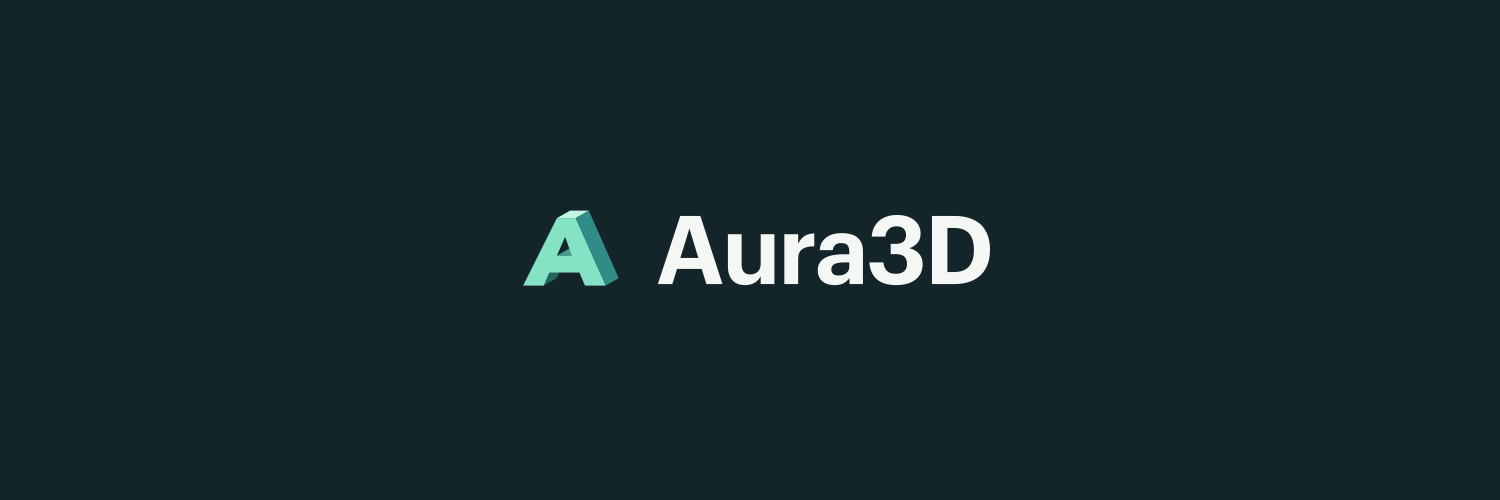
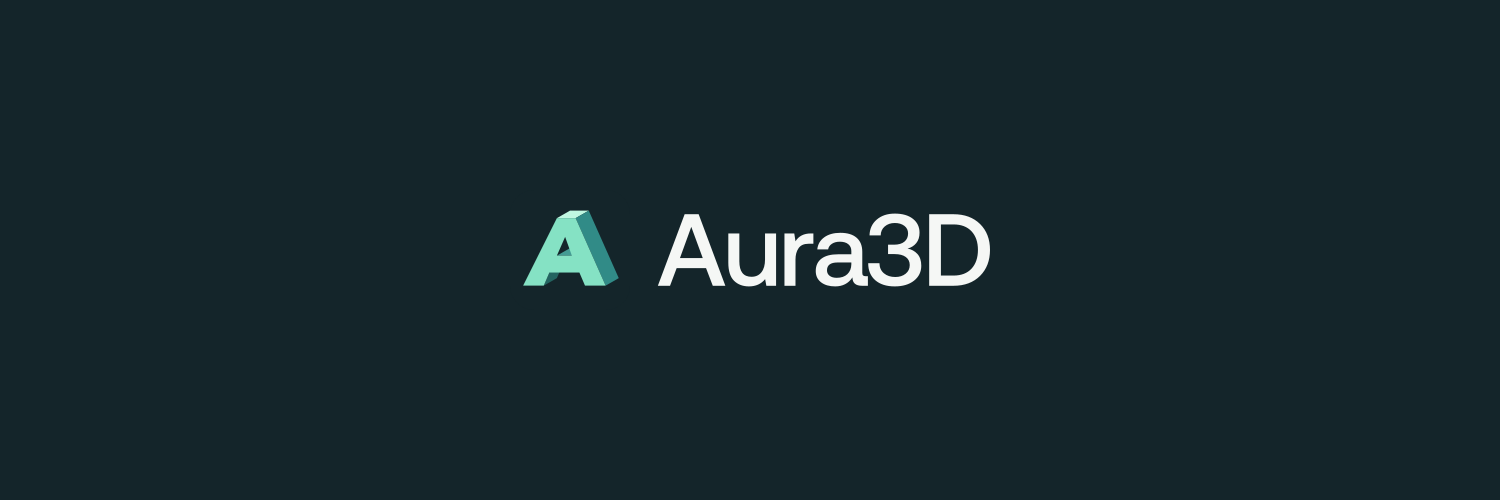
Use licensed display and telemetry type in the live showcases and covers

Changed region(s): [[0.4293, 0.42, 0.6747, 0.57]]

diff --git a/apps/relay-workcell/src/studio.css b/apps/relay-workcell/src/studio.css
@@ -1,11 +1,11 @@
-:root{color-scheme:light;font-family:"Inter","Helvetica Neue",Arial,sans-serif;color:#173739;background:#142e31;font-synthesis:none}
+:root{color-scheme:light;font-family:"Aeonik Pro",Arial,sans-serif;color:#173739;background:#142e31;font-synthesis:none}
 *{box-sizing:border-box}body{margin:0}header{height:60px;background:#11292b;padding:0 clamp(16px,3.5vw,64px);display:flex;align-items:center;justify-content:space-between}
-a{color:inherit}header a{color:#e8f1ee;text-decoration:none;font-size:.86rem}header nav{display:flex;align-items:center;gap:14px;color:#79948f}.brand{font-size:1.22rem;font-weight:750;letter-spacing:-.07em}
+a{color:inherit}header a{color:#e8f1ee;text-decoration:none;font-size:.86rem}header nav{display:flex;align-items:center;gap:14px;color:#79948f}.brand{font-size:1.22rem;font-weight:500;letter-spacing:-.07em}
 .lab{display:grid;grid-template-columns:minmax(0,1fr) clamp(290px,25vw,375px);min-height:calc(100svh - 60px)}.view{position:relative;overflow:hidden;min-height:530px;background:#a4b7b7}
-#viewport,.poster{display:block;position:absolute;inset:0;width:100%;height:100%;object-fit:cover}#viewport{touch-action:none}.poster{pointer-events:none}.nameplate{position:absolute;top:clamp(23px,4vw,58px);left:clamp(20px,3.4vw,60px);pointer-events:none;color:#102f31;text-shadow:0 1px 12px #dbe7e686}.nameplate p,.eyebrow{margin:0;text-transform:uppercase;letter-spacing:.16em;font-size:.67rem;font-weight:700}.nameplate h1{margin:5px 0;font-size:clamp(2rem,4.5vw,5.4rem);font-weight:550;letter-spacing:-.07em;line-height:1.02}.nameplate p:before{content:"";display:inline-block;width:24px;height:3px;margin:0 8px 2px 0;background:#237c72}
+#viewport,.poster{display:block;position:absolute;inset:0;width:100%;height:100%;object-fit:cover}#viewport{touch-action:none}.poster{pointer-events:none}.nameplate{position:absolute;top:clamp(23px,4vw,58px);left:clamp(20px,3.4vw,60px);pointer-events:none;color:#102f31;text-shadow:0 1px 12px #dbe7e686}.nameplate p,.eyebrow{margin:0;text-transform:uppercase;letter-spacing:.16em;font-size:.67rem;font-weight:500}.nameplate h1{margin:5px 0;font-size:clamp(2rem,4.5vw,5.4rem);font-weight:500;letter-spacing:-.07em;line-height:1.02}.nameplate p:before{content:"";display:inline-block;width:24px;height:3px;margin:0 8px 2px 0;background:#237c72}
 #instruction{position:absolute;bottom:22px;left:clamp(12px,2.5vw,42px);display:flex;gap:.55em;align-items:center;padding:9px 13px;border-radius:2px;background:#173236ed;color:#f5f8f6;font-size:.74rem;margin:0;pointer-events:none}#instruction i{width:14px;border-top:3px dotted #5de6c9}#instruction span{color:#a7bdb7}body[data-scene-ready] .poster{display:none}
-aside{background:#eff3ee;padding:clamp(21px,2vw,34px);align-content:center;display:grid;gap:16px;border-left:1px solid #a2b2aa}.panel-head,.metrics,.actions,legend,.telemetry .eyebrow,footer{display:flex;justify-content:space-between;align-items:center;gap:10px}.panel-head .eyebrow{color:#53746d}#phase{font:650 .69rem ui-monospace,monospace;color:#096a57;background:#dbebe0;border-radius:14px;padding:5px 9px}h2{margin:0;font-size:clamp(1.65rem,2.5vw,2.5rem);letter-spacing:-.06em;font-weight:550}
-.metrics{justify-content:start;gap:30px}.metrics small{font-size:.7rem;color:#42605a;display:block;margin-bottom:3px}.metrics strong{font-size:1.28rem;font-family:ui-monospace,monospace;font-weight:550}.actions{justify-content:stretch}.actions button{flex:1;font:600 .87rem inherit;font-family:inherit;font-weight:650;min-height:42px;border:1px solid #b0c2ba;background:transparent;color:#19463f;border-radius:3px;cursor:pointer}.actions #run{flex:1.6;background:#145c50;color:white;border-color:#145c50}button:disabled,input:disabled{opacity:.6;cursor:default}
-#status{font-size:.78rem;line-height:1.4;margin:-6px 0 0;color:#49645b}body[data-blocked] #status{color:#92401d;font-weight:650}fieldset,.telemetry,footer{border:none;border-top:1px solid #bacac0;padding:14px 0 0;margin:0}legend{float:left;width:100%;padding:0 0 10px;font-weight:650;font-size:.82rem}legend small,.eyebrow small{font:.68rem ui-monospace,monospace;letter-spacing:0;text-transform:none;color:#526d64}.coords{clear:both;display:grid;grid-template-columns:1fr 1fr 1fr;gap:6px;align-items:center}.coords>span{text-align:center;font:.7rem ui-monospace,monospace;color:#597068}.coords input{min-width:0;width:100%;font:600 .84rem ui-monospace,monospace;color:#25453c;border:1px solid #b2c5ba;background:#f8faf6;border-radius:3px;padding:7px}.station{font-size:.79rem;font-weight:650}.station:before{content:"";display:inline-block;width:7px;height:7px;border-radius:1px;margin-right:7px;background:#177d70}.drop:before{background:#b67a26}.telemetry .eyebrow{font-size:.62rem;color:#526b62}#tcp,#joints{display:grid;grid-template-columns:repeat(3,1fr);gap:5px 10px;margin:8px 0 15px;font:500 .78rem ui-monospace,monospace}#joints{margin-bottom:0}.telemetry b{font-weight:400;color:#577067;margin-right:4px}footer a{font-size:.75rem;color:#225a4f;text-underline-offset:3px}button:focus-visible,input:focus-visible,a:focus-visible{outline:3px solid #d78628;outline-offset:2px}
+aside{background:#eff3ee;padding:clamp(21px,2vw,34px);align-content:center;display:grid;gap:16px;border-left:1px solid #a2b2aa}.panel-head,.metrics,.actions,legend,.telemetry .eyebrow,footer{display:flex;justify-content:space-between;align-items:center;gap:10px}.panel-head .eyebrow{color:#53746d}#phase{font:500 .69rem "Aeonik Pro",Arial,sans-serif;color:#096a57;background:#dbebe0;border-radius:14px;padding:5px 9px}h2{margin:0;font-size:clamp(1.65rem,2.5vw,2.5rem);letter-spacing:-.06em;font-weight:500}
+.metrics{justify-content:start;gap:30px}.metrics small{font-size:.7rem;color:#42605a;display:block;margin-bottom:3px}.metrics strong{font-size:1.28rem;font-family:"TT Commons Pro Mono",ui-monospace,monospace;font-weight:400}.actions{justify-content:stretch}.actions button{flex:1;font:500 .87rem/1.3 "Aeonik Pro",Arial,sans-serif;min-height:42px;border:1px solid #b0c2ba;background:transparent;color:#19463f;border-radius:3px;cursor:pointer}.actions #run{flex:1.6;background:#145c50;color:white;border-color:#145c50}button:disabled,input:disabled{opacity:.6;cursor:default}
+#status{font-size:.78rem;line-height:1.4;margin:-6px 0 0;color:#49645b}body[data-blocked] #status{color:#92401d;font-weight:500}fieldset,.telemetry,footer{border:none;border-top:1px solid #bacac0;padding:14px 0 0;margin:0}legend{float:left;width:100%;padding:0 0 10px;font-weight:500;font-size:.82rem}legend small,.eyebrow small{font:.68rem "TT Commons Pro Mono",ui-monospace,monospace;letter-spacing:0;text-transform:none;color:#526d64}.coords{clear:both;display:grid;grid-template-columns:1fr 1fr 1fr;gap:6px;align-items:center}.coords>span{text-align:center;font:.7rem "TT Commons Pro Mono",ui-monospace,monospace;color:#597068}.coords input{min-width:0;width:100%;font:400 .84rem "TT Commons Pro Mono",ui-monospace,monospace;color:#25453c;border:1px solid #b2c5ba;background:#f8faf6;border-radius:3px;padding:7px}.station{font-size:.79rem;font-weight:500}.station:before{content:"";display:inline-block;width:7px;height:7px;border-radius:1px;margin-right:7px;background:#177d70}.drop:before{background:#b67a26}.telemetry .eyebrow{font-size:.62rem;color:#526b62}#tcp,#joints{display:grid;grid-template-columns:repeat(3,1fr);gap:5px 10px;margin:8px 0 15px;font:400 .78rem "TT Commons Pro Mono",ui-monospace,monospace}#joints{margin-bottom:0}.telemetry b{font-weight:400;color:#577067;margin-right:4px}footer a{font-size:.75rem;color:#225a4f;text-underline-offset:3px}button:focus-visible,input:focus-visible,a:focus-visible{outline:3px solid #d78628;outline-offset:2px}
 html[data-chrome=hidden] header,html[data-chrome=hidden] aside,html[data-chrome=hidden] .nameplate,html[data-chrome=hidden] #instruction{display:none}html[data-chrome=hidden] .lab{display:block}html[data-chrome=hidden] .view{height:100dvh;min-height:100dvh}
 @media(max-width:760px){header{height:48px}.lab{display:block}.view{height:58svh;min-height:325px;max-height:550px}.nameplate{top:18px}aside{border:0;gap:12px;padding:22px max(20px,calc((100vw - 470px)/2))}#instruction{bottom:10px;font-size:.67rem}h2{font-size:1.7rem}}

diff --git a/apps/ember-courier/src/style.css b/apps/ember-courier/src/style.css
@@ -1,17 +1,17 @@
-:root{color-scheme:dark;font-family:"Barlow",system-ui,sans-serif;background:#13232d;color:#f5f4ed;--amber:#ffae61;--line:#a7c3c24f}
+:root{color-scheme:dark;font-family:"Aeonik Pro",Arial,sans-serif;font-synthesis:none;background:#13232d;color:#f5f4ed;--amber:#ffae61;--line:#a7c3c24f}
 *{box-sizing:border-box}body{margin:0}#deck,#viewport,#viewport>canvas{position:absolute;inset:0;width:100%;height:100%;overflow:hidden}#viewport,#viewport>canvas{display:block;touch-action:none}
-.chrome{position:absolute;z-index:2}header{inset:0 0 auto;display:flex;justify-content:space-between;padding:20px clamp(18px,3.3vw,58px);background:linear-gradient(#08141dd6,transparent)}a{color:inherit;text-decoration:none}header a:first-child{font-weight:800}header a:last-child,header a span{font-size:12px;font-weight:550;letter-spacing:.05em}header a span{margin-left:.45rem;color:#d6e3e6}
+.chrome{position:absolute;z-index:2}header{inset:0 0 auto;display:flex;justify-content:space-between;padding:20px clamp(18px,3.3vw,58px);background:linear-gradient(#08141dd6,transparent)}a{color:inherit;text-decoration:none}header a:first-child{font-weight:500}header a:last-child,header a span{font-size:12px;font-weight:500;letter-spacing:.05em}header a span{margin-left:.45rem;color:#d6e3e6}
 #brief,#result{bottom:13%;left:clamp(20px,5vw,80px);width:min(30vw,380px);text-shadow:0 2px 18px #08151f}
 #brief:before,#result:before{content:"";position:absolute;inset:-50% -25% -36% -50%;z-index:-1;background:radial-gradient(ellipse at 38% 60%,#07121ce3,transparent 73%);pointer-events:none}
-.kicker{font:650 10px/1.5 "IBM Plex Mono",ui-monospace,monospace;letter-spacing:.21em;color:var(--amber)}
+.kicker{font:500 10px/1.5 "Aeonik Pro",Arial,sans-serif;letter-spacing:.21em;color:var(--amber)}
 .kicker i{display:inline-block;width:21px;height:2px;background:currentColor;vertical-align:middle;margin-right:5px}
-h1,h2{font-family:"Barlow Condensed","Arial Narrow",system-ui,sans-serif;font-size:clamp(54px,6.2vw,105px);line-height:.86;letter-spacing:-.07em;margin:16px 0 18px;font-weight:790}h1 span,h2 span{color:var(--amber)}
+h1,h2{font-size:clamp(54px,6.2vw,105px);line-height:.86;letter-spacing:-.07em;margin:16px 0 18px;font-weight:700}h1 span,h2 span{color:var(--amber)}
 .task,#time{max-width:29ch;font-size:clamp(14px,1.12vw,18px);line-height:1.45;margin:0 0 20px}
-button{border:0;border-radius:3px;background:var(--amber);color:#281910;padding:13px 18px;font:680 14px/1.2 inherit;font-family:inherit;font-weight:700;cursor:pointer}button span{margin-left:18px}button:disabled{opacity:.52;cursor:wait}button:focus-visible,a:focus-visible{outline:3px solid white;outline-offset:4px}button:hover:enabled{background:#ffc184}
-footer{bottom:max(17px,env(safe-area-inset-bottom));left:clamp(18px,3.3vw,58px);font-size:12px;color:#ecf2ef;text-shadow:0 1px 8px #02080b}kbd{font:inherit;font-weight:700}.touch-tip{display:none}
+button{border:0;border-radius:3px;background:var(--amber);color:#281910;padding:13px 18px;font:500 14px/1.2 "Aeonik Pro",Arial,sans-serif;cursor:pointer}button span{margin-left:18px}button:disabled{opacity:.52;cursor:wait}button:focus-visible,a:focus-visible{outline:3px solid white;outline-offset:4px}button:hover:enabled{background:#ffc184}
+footer{bottom:max(17px,env(safe-area-inset-bottom));left:clamp(18px,3.3vw,58px);font-size:12px;color:#ecf2ef;text-shadow:0 1px 8px #02080b}kbd{font:400 1em "TT Commons Pro Mono",monospace}.touch-tip{display:none}
 #hud{top:66px;left:clamp(18px,3.3vw,58px);display:grid;grid-template-columns:repeat(2,max-content);gap:6px 25px;padding:14px 19px 12px;border-left:2px solid var(--amber);background:#0d2029df;border-radius:0 3px 3px 0}
-#hud strong{display:block;font-variant-numeric:tabular-nums;font-size:23px}#prompt{grid-column:span 2;font-size:12px;margin:3px 0 0}#status{position:absolute;inset:auto 1rem 1rem auto;background:#142835d9;font-size:12px;padding:5px 9px}#status:empty,[hidden]{display:none!important}html[data-chrome=hidden] .chrome,html[data-chrome=hidden] .a3g-tc,body[data-phase=portrait] .a3g-tc,body[data-phase=complete] .a3g-tc{display:none!important}
-.a3g-tc-btn:after{content:"DASH";display:grid;place-items:center;height:100%;font:700 11px/1 monospace;letter-spacing:.07em}.a3g-tc{border-color:#ffb66c9c!important;background:#12242abf!important}
+#hud strong{display:block;font:400 23px/1.2 "TT Commons Pro Mono",monospace;font-variant-numeric:tabular-nums}#prompt{grid-column:span 2;font-size:12px;margin:3px 0 0}#status{position:absolute;inset:auto 1rem 1rem auto;background:#142835d9;font-size:12px;padding:5px 9px}#status:empty,[hidden]{display:none!important}html[data-chrome=hidden] .chrome,html[data-chrome=hidden] .a3g-tc,body[data-phase=portrait] .a3g-tc,body[data-phase=complete] .a3g-tc{display:none!important}
+.a3g-tc-btn:after{content:"DASH";display:grid;place-items:center;height:100%;font:500 11px/1 "Aeonik Pro",Arial,sans-serif;letter-spacing:.07em}.a3g-tc{border-color:#ffb66c9c!important;background:#12242abf!important}
 @media(pointer:coarse){.keys{display:none}.touch-tip{display:inline}body[data-phase=running] footer{display:none}}
 @media(max-width:650px){#brief,#result{bottom:7.5%;left:20px;width:calc(100% - 40px)}h1,h2{font-size:47px;margin:6px 0}h1 br,h2 br{display:none}h1 br:after,h2 br:after{content:" "}h1 br,h2 br{display:inline}h1 br:before,h2 br:before{content:" "}#brief .kicker,#result .kicker{margin:0}.task,#time{font-size:13px;margin:6px 0 12px;max-width:34ch}button{padding:10px 15px}footer{font-size:10px}#hud{top:54px}}
 @media(max-height:460px){#brief,#result{bottom:12%}h1,h2{font-size:41px;margin:6px 0}.task{font-size:12px;margin-bottom:8px}header{padding-top:10px}footer{bottom:8px}}

diff --git a/apps/vesper-gt/src/studio.css b/apps/vesper-gt/src/studio.css
@@ -1,17 +1,5 @@
-@font-face {
-  font-family: Aeonik;
-  src: url('/fonts/aeonik-pro/AeonikPro-Regular.woff2') format('woff2');
-  font-weight: 400;
-  font-display: swap;
-}
-@font-face {
-  font-family: Aeonik;
-  src: url('/fonts/aeonik-pro/AeonikPro-Medium.woff2') format('woff2');
-  font-weight: 500;
-  font-display: swap;
-}
 * { box-sizing: border-box; }
-:root { color-scheme: dark; background: #18191a; color: #f4f1ec; font: 400 16px/1.35 Aeonik, Arial, sans-serif; --inset: clamp(18px, 4vw, 76px); }
+:root { color-scheme: dark; font-synthesis: none; background: #18191a; color: #f4f1ec; font: 400 16px/1.35 "Aeonik Pro", Arial, sans-serif; --inset: clamp(18px, 4vw, 76px); }
 body, p, h1 { margin: 0; }
 a { color: inherit; text-decoration: none; }
 a:hover { text-decoration: underline; text-underline-offset: 4px; }
@@ -30,8 +18,8 @@ header nav > span { color: #868482; }
 body[data-scene-ready] .poster { display: none; }
 .title { position: absolute; left: var(--inset); top: clamp(22px, 4vh, 60px); pointer-events: none; text-shadow: 0 1px 12px #15171a70; }
 .title p { text-transform: uppercase; letter-spacing: .17em; font-size: clamp(11px, .86vw, 14px); font-weight: 500; }
-.title h1 { font-size: clamp(54px, 6.8vw, 116px); font-weight: 400; line-height: .97; letter-spacing: -.09em; margin-left: -.05em; }
-h1 i { font-weight: 500; padding-right: .12em; }
+.title h1 { font-size: clamp(54px, 6.8vw, 116px); font-weight: 500; line-height: .97; letter-spacing: -.09em; margin-left: -.05em; }
+h1 i { font-weight: 400; padding-right: .12em; }
 #help, #status { position: absolute; bottom: 20px; left: var(--inset); padding: 7px 11px; border-radius: 2px; background: #171a1dd9; color: #f3f0eb; font-size: 12px; pointer-events: none; }
 #help { display: none; }
 #help span { color: #9e9c98; margin: 0 6px; }

diff --git a/apps/relay-workcell/index.html b/apps/relay-workcell/index.html
@@ -16,7 +16,8 @@
     <meta name="twitter:description" content="Program a pick-and-place cycle for an articulated six-axis robot. Move the workstations and inspect tool position, joint angles and cycle timing in a real-time Aura3D workcell." />
 
     <script type="application/ld+json">{"@context":"https://schema.org","@type":"WebApplication","name":"Relay Workcell","url":"https://aura3d.auraone.ai/apps/relay-workcell/","applicationCategory":"MultimediaApplication","operatingSystem":"Web","inLanguage":"en","isAccessibleForFree":true,"publisher":{"@type":"Organization","name":"Aura3D","url":"https://aura3d.auraone.ai"},"description":"Program a pick-and-place cycle for an articulated six-axis robot. Move the workstations and inspect tool position, joint angles and cycle timing in a real-time Aura3D workcell.","image":"https://aura3d.auraone.ai/previews/social/examples/relay-workcell.jpg?v=6e6742dcf2a2"}</script>
-<link rel="icon" href="/favicon.svg?v=2e3f768c44d3"><link rel="stylesheet" href="./src/studio.css">
+<link rel="icon" href="/favicon.svg?v=2e3f768c44d3"><link rel="stylesheet" href="/fonts/local.css">
+  <link rel="stylesheet" href="./src/studio.css">
 </head><body>
 <header><nav aria-label="Main navigation"><a class="brand" href="/"><img src="/store-assets/brand/aura3d-logo-light.svg" alt="Aura3D" width="96" height="24"></a><span>/</span><a href="/docs/#examples">Examples</a></nav><a href="./stage.ts.txt">Scene source ↗</a></header>
 <main>

diff --git a/apps/vesper-gt/index.html b/apps/vesper-gt/index.html
@@ -16,7 +16,8 @@
   <meta name="twitter:description" content="Explore an original garnet grand touring coupe under changing studio lights.">
 
   <script type="application/ld+json">{"@context":"https://schema.org","@type":"WebApplication","name":"Vesper GT","url":"https://aura3d.auraone.ai/apps/vesper-gt/","applicationCategory":"MultimediaApplication","operatingSystem":"Web","inLanguage":"en","isAccessibleForFree":true,"publisher":{"@type":"Organization","name":"Aura3D","url":"https://aura3d.auraone.ai"},"description":"Orbit the Vesper GT, an original garnet grand touring coupe. Inspect its front wheel, change the studio light and download the model or explore the Aura3D scene source.","image":"https://aura3d.auraone.ai/previews/social/examples/vesper-gt.jpg?v=96879e59afe0"}</script>
-  <link rel="icon" href="/favicon.svg?v=2e3f768c44d3"><link rel="stylesheet" href="./src/studio.css">
+  <link rel="icon" href="/favicon.svg?v=2e3f768c44d3"><link rel="stylesheet" href="/fonts/local.css">
+  <link rel="stylesheet" href="./src/studio.css">
 </head>
 <body>
   <header><nav aria-label="Main navigation"><a class="brand" href="/"><img src="/store-assets/brand/aura3d-logo-light.svg" alt="Aura3D" width="96" height="24"></a><span aria-hidden="true">/</span><a href="/docs/#examples">Examples</a></nav><a href="./stage.ts.txt">Scene source <span aria-hidden="true">↗</span></a></header>

diff --git a/apps/ember-courier/index.html b/apps/ember-courier/index.html
@@ -17,7 +17,8 @@
     <meta name="twitter:description" content="Pilot an armored courier across a floodlit industrial relay deck. Dash through three signal gates in this playable third-person Aura3D game." />
 
     <script type="application/ld+json">{"@context":"https://schema.org","@type":"WebApplication","name":"Ember Courier","url":"https://aura3d.auraone.ai/apps/ember-courier/","applicationCategory":"MultimediaApplication","operatingSystem":"Web","inLanguage":"en","isAccessibleForFree":true,"publisher":{"@type":"Organization","name":"Aura3D","url":"https://aura3d.auraone.ai"},"description":"Pilot an armored courier across a floodlit industrial relay deck. Dash through three signal gates in this playable third-person Aura3D game.","image":"https://aura3d.auraone.ai/previews/social/examples/ember-courier.jpg?v=43b3b195e366"}</script>
-  <link rel="icon" href="/favicon.svg?v=2e3f768c44d3"><link rel="stylesheet" href="./src/style.css">
+  <link rel="icon" href="/favicon.svg?v=2e3f768c44d3"><link rel="stylesheet" href="/fonts/local.css">
+  <link rel="stylesheet" href="./src/style.css">
 </head>
 <body data-phase="portrait">
   <main id="deck">
